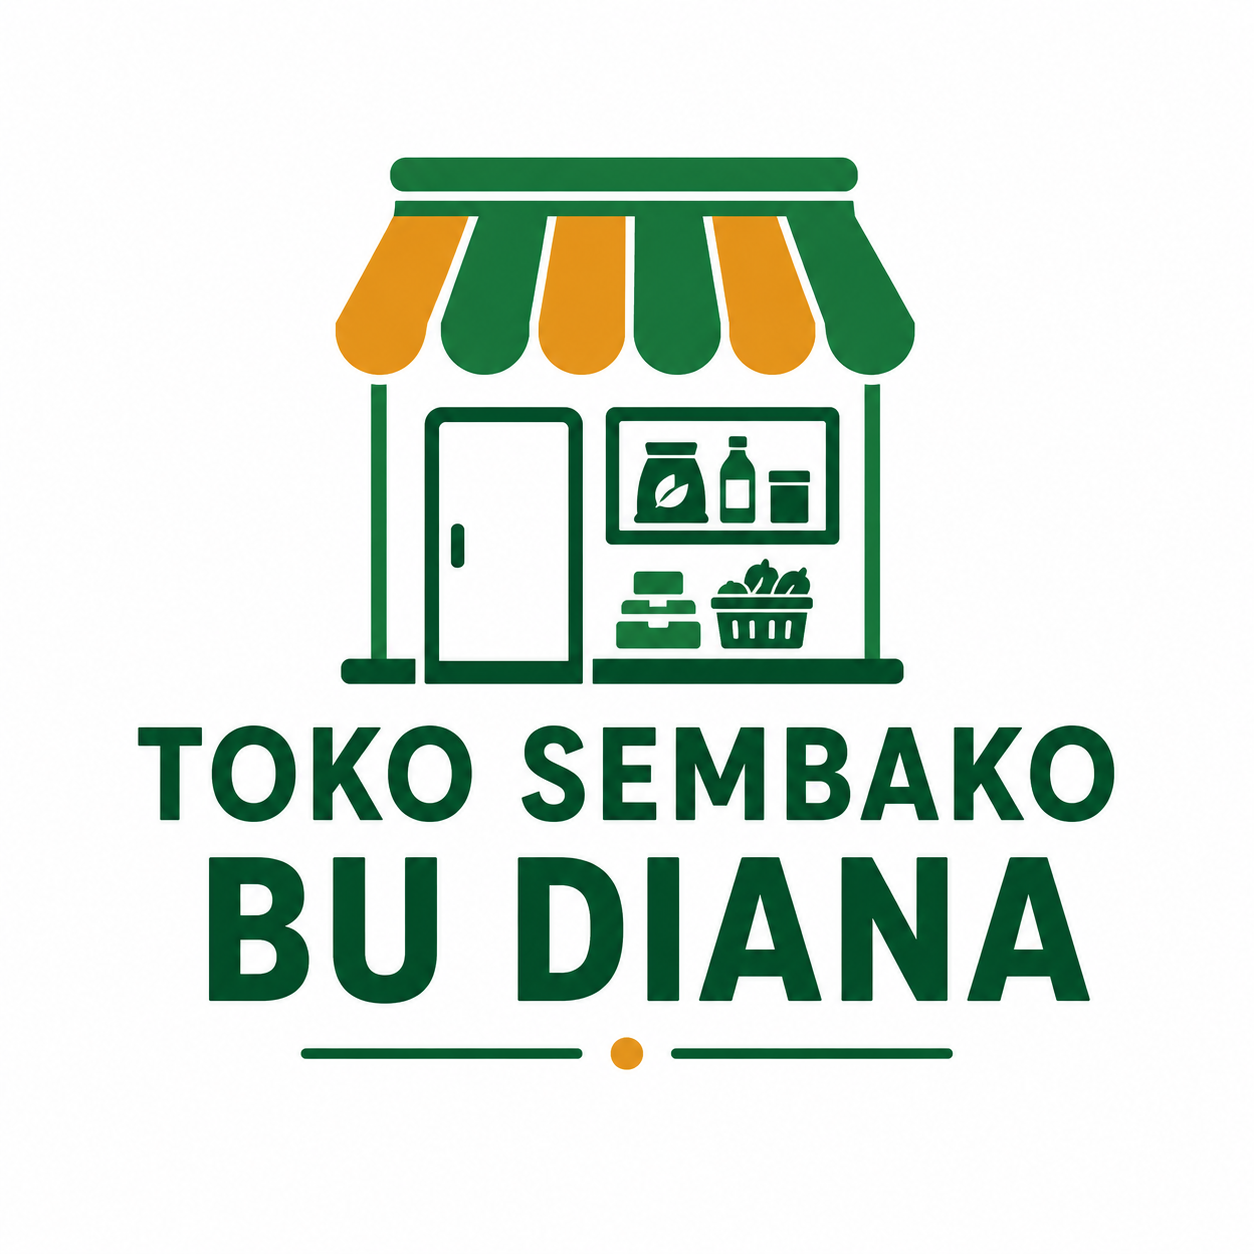
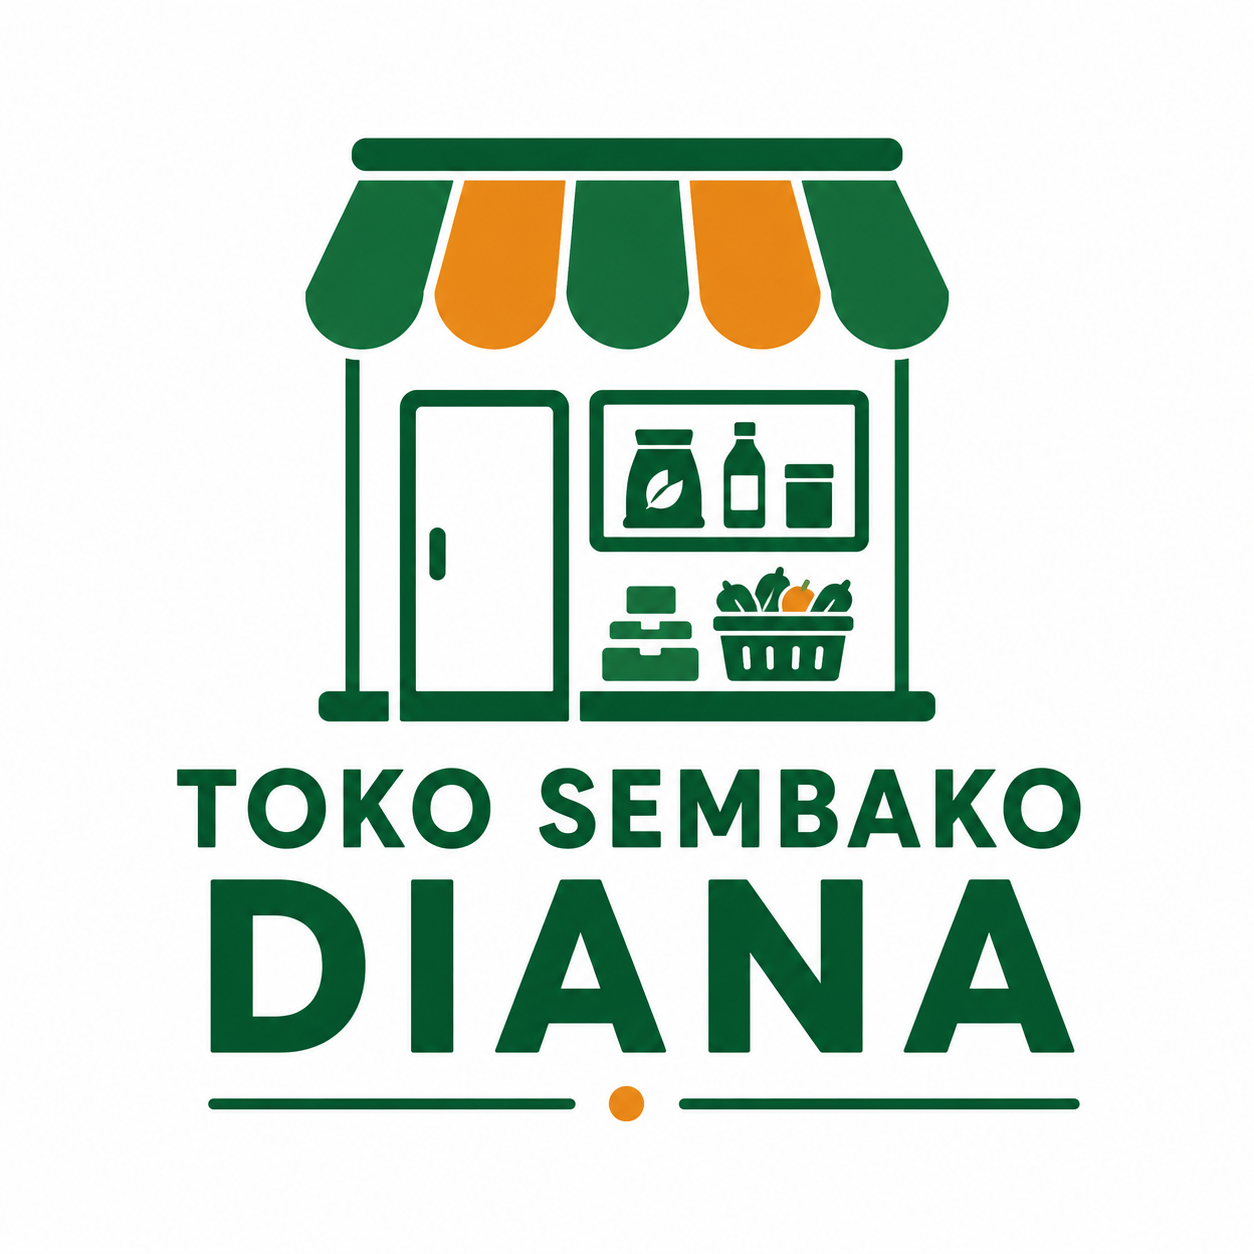
update nama dan kontak

Changed region(s): [[0.0933, 0.0933, 0.9019, 0.9019]]

diff --git a/admin/index.html b/admin/index.html
@@ -3,7 +3,7 @@
 <head>
     <meta charset="UTF-8">
     <meta name="viewport" content="width=device-width, initial-scale=1.0">
-    <title>Admin Inventory | Toko Sembako Ibu Diana</title>
+    <title>Admin Inventory | Toko Sembako Diana</title>
     <link rel="icon" type="image/png" href="../images/Favicon.png">
     <link rel="stylesheet" href="./css/admin.css">
     <script src="https://cdn.jsdelivr.net/npm/@supabase/supabase-js@2"></script>
@@ -15,7 +15,7 @@
                 <img src="../images/Icon.png" alt="" class="brand-mark" aria-hidden="true">
                 <span>
                     <strong>Admin Panel</strong>
-                    <small>Toko Sembako Ibu Diana</small>
+                    <small>Toko Sembako Diana</small>
                 </span>
             </a>
 
@@ -179,7 +179,7 @@
         <div class="login-box" style="background: white; padding: 2.5rem; border-radius: 18px; box-shadow: 0 20px 40px rgba(0,0,0,0.05); width: 100%; max-width: 400px;">
             <div style="text-align: center; margin-bottom: 2rem;">
                 <h2 style="margin: 0; color: #1d1d1f; font-family: 'SF Pro Display', sans-serif; font-size: 28px;">Admin Login</h2>
-                <p style="color: #86868b; margin-top: 0.5rem; font-size: 14px;">Toko Sembako Ibu Diana</p>
+                <p style="color: #86868b; margin-top: 0.5rem; font-size: 14px;">Toko Sembako Diana</p>
             </div>
             <form data-js="loginForm" style="display: flex; flex-direction: column; gap: 1.5rem;">
                 <label for="adminUsername" style="display: block; width: 100%;">

diff --git a/js/components/Contact.js b/js/components/Contact.js
@@ -13,14 +13,14 @@ export function Contact() {
                     <span class="contact-icon" aria-hidden="true">&#128205;</span>
                     <div>
                         <h3>Lokasi Toko</h3>
-                        <p>Jl. Mawar No. 45, Kelurahan Sejahtera, Kecamatan Bangkit, Kota Medan, Sumatera Utara 20123</p>
+                        <p>Toko Diana Lapangan karah no 3 Surabaya Note: Dekat SDN Karah 1</p>
                     </div>
                 </article>
                 <article class="contact-item">
                     <span class="contact-icon" aria-hidden="true">&#128222;</span>
                     <div>
                         <h3>WhatsApp</h3>
-                        <p><a href="https://wa.me/6281234567890" class="contact-link">+62 812-3456-7890</a></p>
+                        <p><a href="https://wa.me/628990851133" class="contact-link">+62 812-3456-7890</a></p>
                     </div>
                 </article>
                 <article class="contact-item">

diff --git a/js/components/About.js b/js/components/About.js
@@ -6,7 +6,7 @@ export function About() {
                 <p class="section-kicker">Tentang toko</p>
                 <h2 id="tentangTitle" class="section-title">Melayani Kebutuhan Harian Sejak 2015</h2>
                 <p class="section-subtitle">
-                    Toko Sembako Ibu Diana menyediakan produk pilihan dengan stok yang dijaga agar tetap layak, segar, dan mudah dibeli oleh pelanggan sekitar.
+                    Toko Sembako Diana menyediakan produk pilihan dengan stok yang dijaga agar tetap layak, segar, dan mudah dibeli oleh pelanggan sekitar.
                 </p>
             </div>
 

diff --git a/js/components/Navbar.js b/js/components/Navbar.js
@@ -2,9 +2,9 @@ export function Navbar() {
     return `
     <nav class="navbar" aria-label="Navigasi utama">
         <div class="navbar-container">
-            <a class="navbar-logo" href="#beranda" aria-label="Toko Sembako Ibu Diana">
+            <a class="navbar-logo" href="#beranda" aria-label="Toko Sembako Diana">
                 <img src="images/Icon.png" alt="" class="logo-mark" aria-hidden="true">
-                <span>Toko Sembako Ibu Diana</span>
+                <span>Toko Sembako Diana</span>
             </a>
 
             <ul class="nav-menu">

diff --git a/js/components/Hero.js b/js/components/Hero.js
@@ -3,7 +3,7 @@ export function Hero() {
     <section id="beranda" class="hero" aria-labelledby="heroTitle">
         <div class="container hero-content">
             <p class="hero-kicker">Belanja sembako harian</p>
-            <h1 id="heroTitle" class="hero-title">Toko Sembako Ibu Diana</h1>
+            <h1 id="heroTitle" class="hero-title">Toko Sembako Diana</h1>
             <p class="hero-subtitle">
                 Produk kebutuhan dapur lengkap, harga ramah, dan siap melayani pesanan take away maupun delivery.
             </p>

diff --git a/index.html b/index.html
@@ -3,7 +3,7 @@
 <head>
     <meta charset="UTF-8">
     <meta name="viewport" content="width=device-width, initial-scale=1.0">
-    <title>Toko Sembako Ibu Diana | Kebutuhan Harian Lengkap</title>
+    <title>Toko Sembako Diana | Kebutuhan Harian Lengkap</title>
     <link rel="icon" type="image/png" href="images/Favicon.png">
     <link rel="stylesheet" href="style.css">
 </head>

diff --git a/js/main.js b/js/main.js
@@ -53,9 +53,9 @@ function initHeroSlider() {
     if (!hero) return;
 
     const images = [
-        "images/background1.jpg",
-        "images/background2.jpg",
-        "images/background3.jpg"
+        "images/background1.jpeg",
+        "images/background2.jpeg",
+        "images/background3.jpeg"
     ];
     
     let currentIndex = 0;

diff --git a/js/components/Footer.js b/js/components/Footer.js
@@ -2,7 +2,7 @@ export function Footer() {
     return `
     <footer class="footer">
         <div class="container">
-            <p>&copy; 2026 Toko Sembako Ibu Diana. Semua hak cipta dilindungi.</p>
+            <p>&copy; 2026 Toko Sembako Diana. Semua hak cipta dilindungi.</p>
         </div>
     </footer>
     `;
